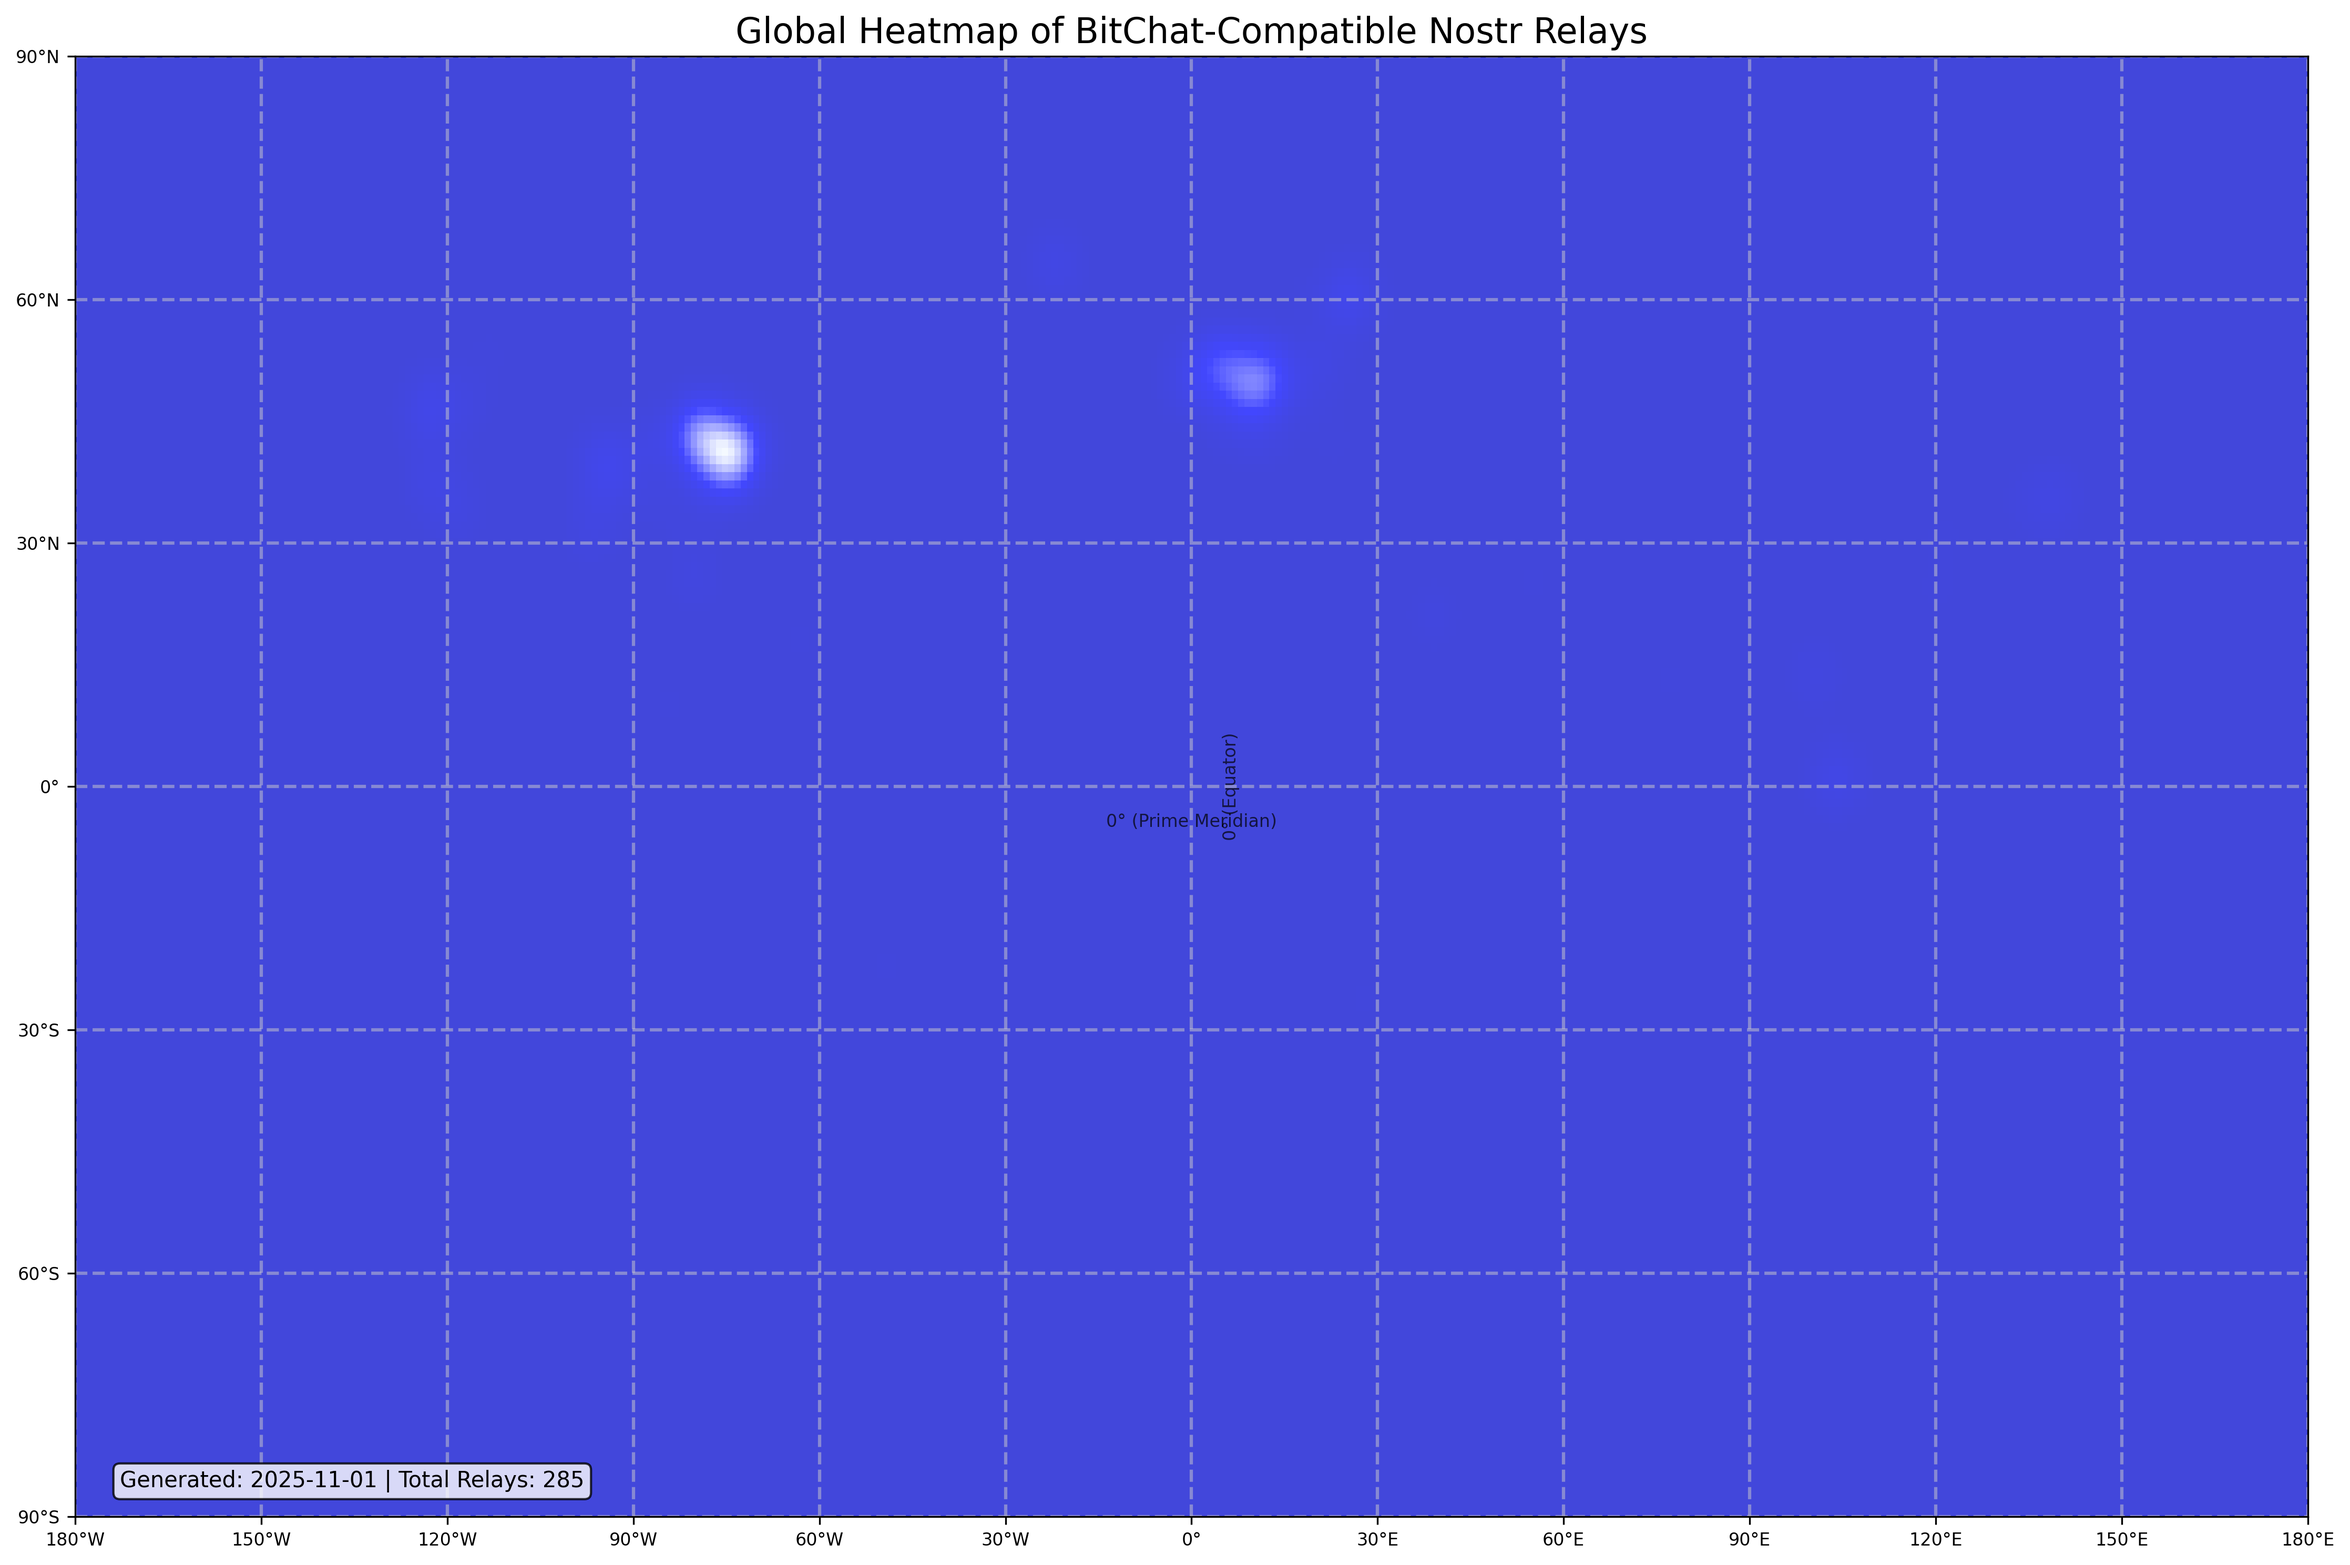
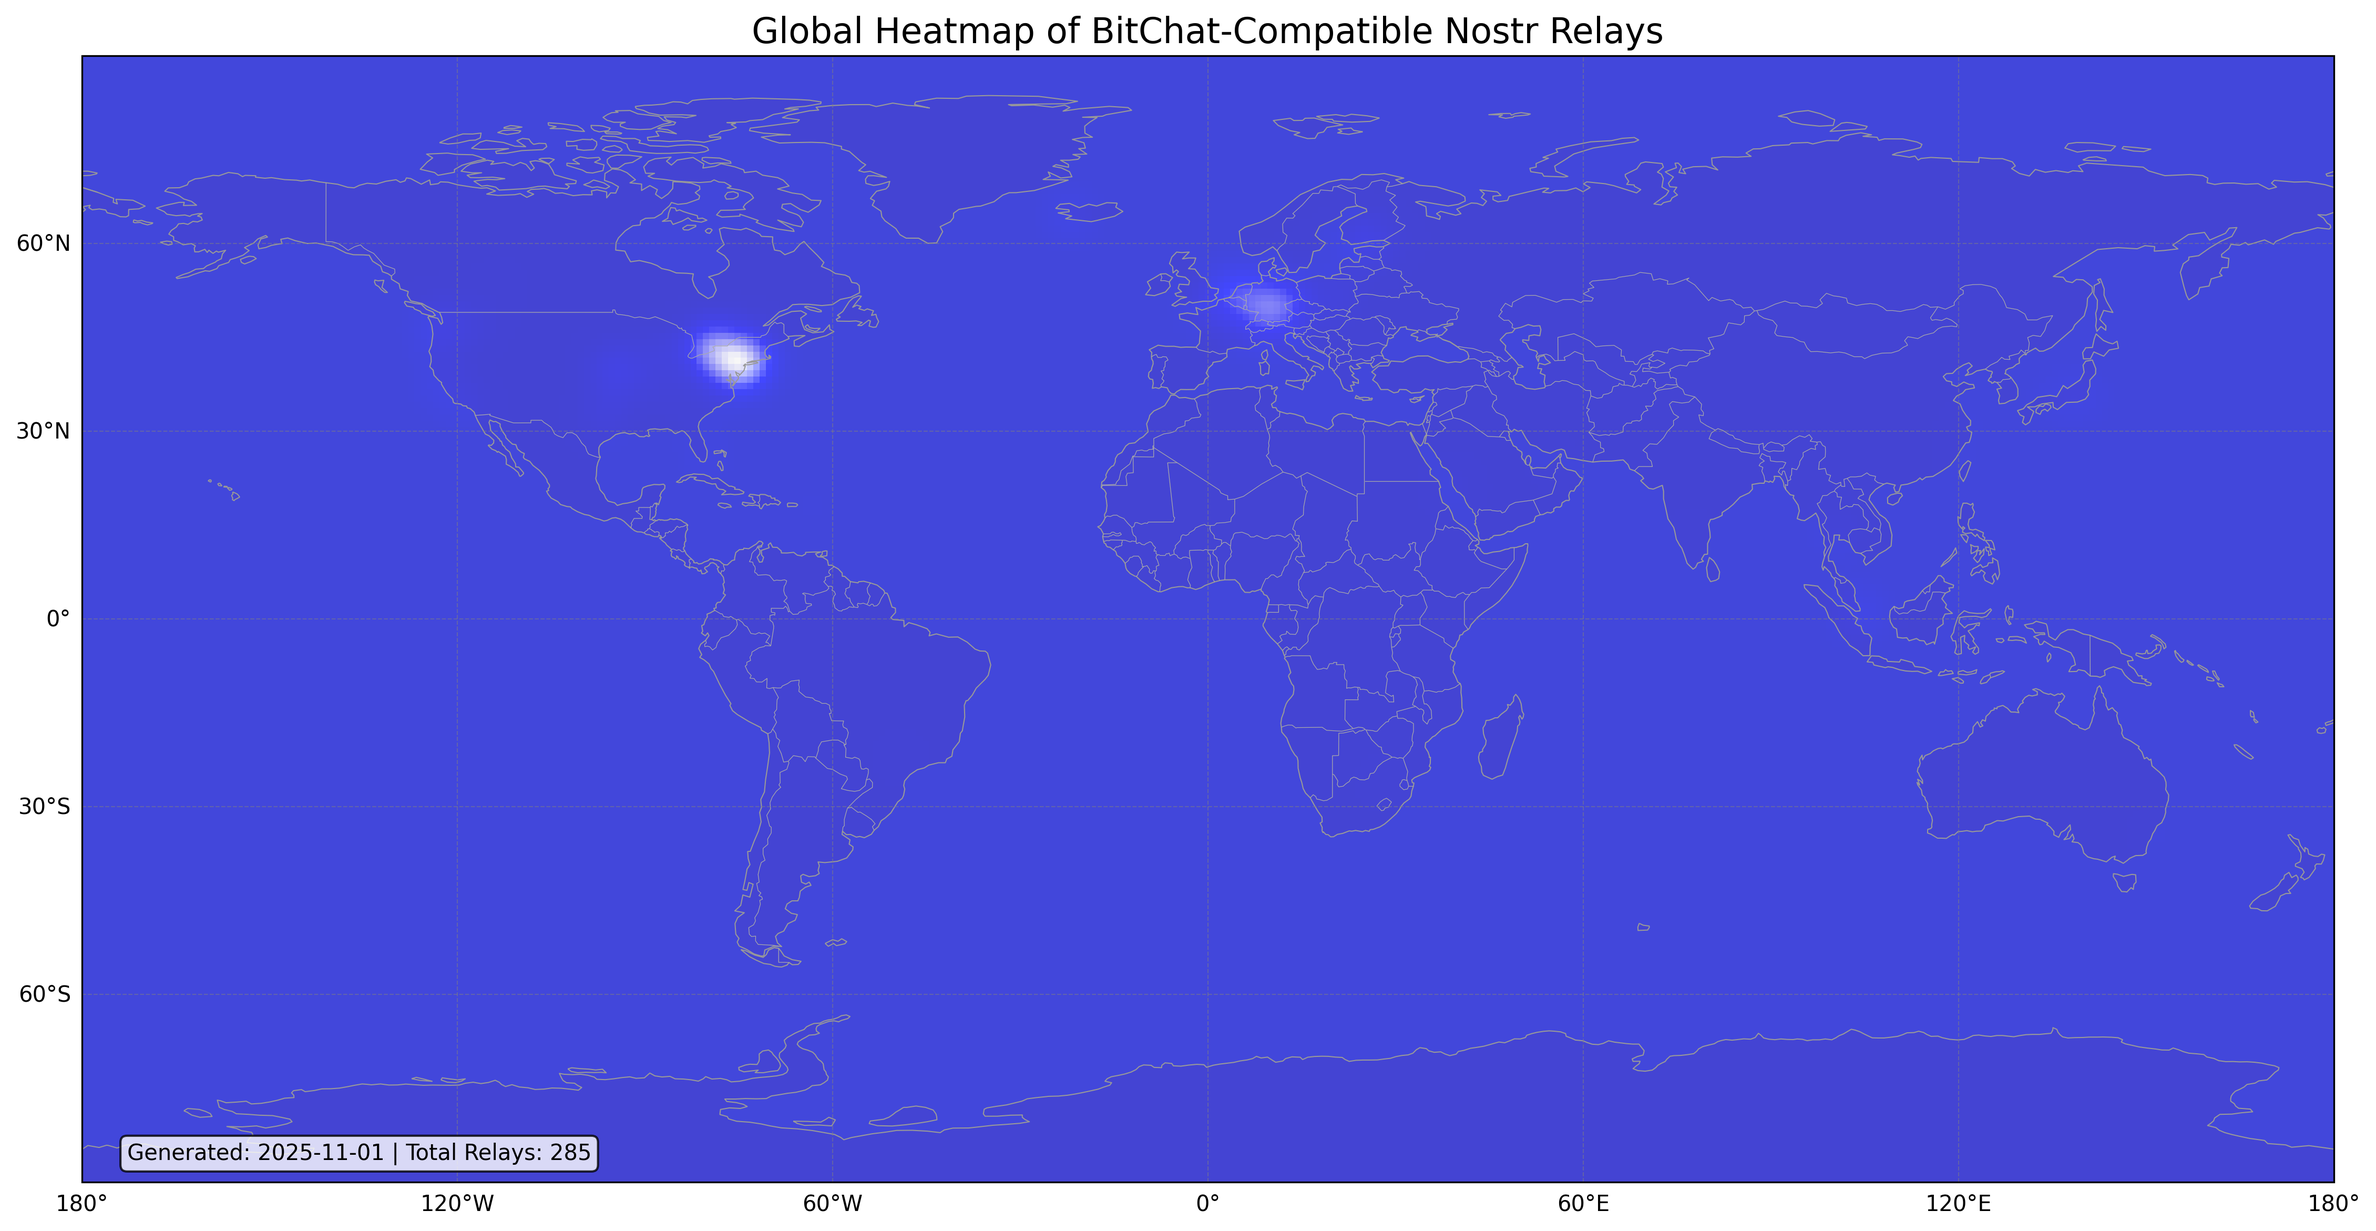
Improve relay maps with proper world map backgrounds using cartopy

diff --git a/scripts/generate_relay_map.py b/scripts/generate_relay_map.py
@@ -48,38 +48,47 @@ def create_interactive_map(df, output_path):
 
 def create_static_map(df, output_path):
     """
-    Create a static PNG map showing relay locations on a simple world map.
+    Create a static PNG map showing relay locations on a proper world map.
     
     Args:
         df: DataFrame containing relay data with Latitude and Longitude columns
         output_path: Path to save the PNG map
     """
+    import cartopy.crs as ccrs
+    import cartopy.feature as cfeature
+    
     plt.figure(figsize=(15, 10))
     
-    # Create a simple base map
-    ax = plt.axes()
-    ax.set_facecolor('#DDEEFF')  # Light blue background for oceans
+    # Create a map with a proper projection
+    ax = plt.axes(projection=ccrs.PlateCarree())
     
-    # Draw a simple grid
-    for i in range(-180, 181, 30):
-        plt.axvline(x=i, color='#CCCCCC', linestyle='--', alpha=0.5)
+    # Add map features
+    ax.add_feature(cfeature.LAND, facecolor='#E5E5E5')
+    ax.add_feature(cfeature.OCEAN, facecolor='#DDEEFF')
+    ax.add_feature(cfeature.COASTLINE, linewidth=0.5, edgecolor='#999999')
+    ax.add_feature(cfeature.BORDERS, linewidth=0.3, edgecolor='#AAAAAA')
+    ax.add_feature(cfeature.LAKES, facecolor='#DDEEFF', edgecolor='#999999', linewidth=0.5)
+    ax.add_feature(cfeature.RIVERS, edgecolor='#99CCFF', linewidth=0.5)
     
-    for i in range(-90, 91, 30):
-        plt.axhline(y=i, color='#CCCCCC', linestyle='--', alpha=0.5)
+    # Add grid
+    gl = ax.gridlines(crs=ccrs.PlateCarree(), draw_labels=True,
+                      linewidth=0.5, color='gray', alpha=0.5, linestyle='--')
+    gl.top_labels = False
+    gl.right_labels = False
     
     # Set map limits
-    plt.xlim(-180, 180)
-    plt.ylim(-90, 90)
+    ax.set_extent([-180, 180, -90, 90], crs=ccrs.PlateCarree())
     
     # Plot relay locations
     plt.scatter(
         df['Longitude'], 
         df['Latitude'],
-        alpha=0.7,
+        alpha=0.8,
         c='blue',
         s=30,
         edgecolor='white',
-        linewidth=0.5
+        linewidth=0.5,
+        transform=ccrs.PlateCarree()
     )
     
     # Add title and labels
@@ -94,19 +103,6 @@ def create_static_map(df, output_path):
         fontsize=10,
         bbox=dict(boxstyle="round,pad=0.3", fc="white", alpha=0.8)
     )
-    
-    # Add labels for equator and prime meridian
-    plt.text(0, -5, "0° (Prime Meridian)", ha='center', fontsize=8, alpha=0.7)
-    plt.text(5, 0, "0° (Equator)", va='center', rotation=90, fontsize=8, alpha=0.7)
-    
-    # Remove axes ticks but keep latitude/longitude labels at 30-degree intervals
-    plt.xticks([-180, -150, -120, -90, -60, -30, 0, 30, 60, 90, 120, 150, 180],
-              ["180°W", "150°W", "120°W", "90°W", "60°W", "30°W", "0°", 
-               "30°E", "60°E", "90°E", "120°E", "150°E", "180°E"], 
-              fontsize=8)
-    plt.yticks([-90, -60, -30, 0, 30, 60, 90],
-              ["90°S", "60°S", "30°S", "0°", "30°N", "60°N", "90°N"], 
-              fontsize=8)
     
     # Adjust layout and save
     plt.tight_layout()
@@ -123,22 +119,29 @@ def create_heatmap(df, output_path):
         df: DataFrame containing relay data with Latitude and Longitude columns
         output_path: Path to save the PNG heatmap
     """
+    import cartopy.crs as ccrs
+    import cartopy.feature as cfeature
+    from scipy.ndimage import gaussian_filter
+    
     plt.figure(figsize=(15, 10))
     
-    # Create a simple base map
-    ax = plt.axes()
-    ax.set_facecolor('#DDEEFF')  # Light blue background for oceans
+    # Create a map with a proper projection
+    ax = plt.axes(projection=ccrs.PlateCarree())
     
-    # Draw a simple grid
-    for i in range(-180, 181, 30):
-        plt.axvline(x=i, color='#CCCCCC', linestyle='--', alpha=0.5)
+    # Add map features
+    ax.add_feature(cfeature.LAND, facecolor='#E5E5E5')
+    ax.add_feature(cfeature.OCEAN, facecolor='#DDEEFF')
+    ax.add_feature(cfeature.COASTLINE, linewidth=0.5, edgecolor='#999999')
+    ax.add_feature(cfeature.BORDERS, linewidth=0.3, edgecolor='#AAAAAA')
     
-    for i in range(-90, 91, 30):
-        plt.axhline(y=i, color='#CCCCCC', linestyle='--', alpha=0.5)
+    # Add grid
+    gl = ax.gridlines(crs=ccrs.PlateCarree(), draw_labels=True,
+                      linewidth=0.5, color='gray', alpha=0.5, linestyle='--')
+    gl.top_labels = False
+    gl.right_labels = False
     
     # Set map limits
-    plt.xlim(-180, 180)
-    plt.ylim(-90, 90)
+    ax.set_extent([-180, 180, -90, 90], crs=ccrs.PlateCarree())
     
     # Create grid for heatmap
     x = np.linspace(-180, 180, 360)
@@ -155,7 +158,6 @@ def create_heatmap(df, output_path):
             heatmap[lat_idx, lon_idx] += 1
     
     # Apply Gaussian smoothing to heatmap
-    from scipy.ndimage import gaussian_filter
     heatmap = gaussian_filter(heatmap, sigma=3)
     
     # Create custom colormap (blue to white)
@@ -163,7 +165,7 @@ def create_heatmap(df, output_path):
     cmap = LinearSegmentedColormap.from_list('custom_blue', colors)
     
     # Plot heatmap
-    plt.pcolormesh(x, y, heatmap, cmap=cmap, alpha=0.7)
+    plt.pcolormesh(x, y, heatmap, cmap=cmap, alpha=0.7, transform=ccrs.PlateCarree())
     
     # Add title
     plt.title('Global Heatmap of BitChat-Compatible Nostr Relays', fontsize=16)
@@ -177,19 +179,6 @@ def create_heatmap(df, output_path):
         fontsize=10,
         bbox=dict(boxstyle="round,pad=0.3", fc="white", alpha=0.8)
     )
-    
-    # Add labels for equator and prime meridian
-    plt.text(0, -5, "0° (Prime Meridian)", ha='center', fontsize=8, alpha=0.7)
-    plt.text(5, 0, "0° (Equator)", va='center', rotation=90, fontsize=8, alpha=0.7)
-    
-    # Add longitude/latitude labels
-    plt.xticks([-180, -150, -120, -90, -60, -30, 0, 30, 60, 90, 120, 150, 180],
-              ["180°W", "150°W", "120°W", "90°W", "60°W", "30°W", "0°", 
-               "30°E", "60°E", "90°E", "120°E", "150°E", "180°E"], 
-              fontsize=8)
-    plt.yticks([-90, -60, -30, 0, 30, 60, 90],
-              ["90°S", "60°S", "30°S", "0°", "30°N", "60°N", "90°N"], 
-              fontsize=8)
     
     # Adjust layout and save
     plt.tight_layout()
